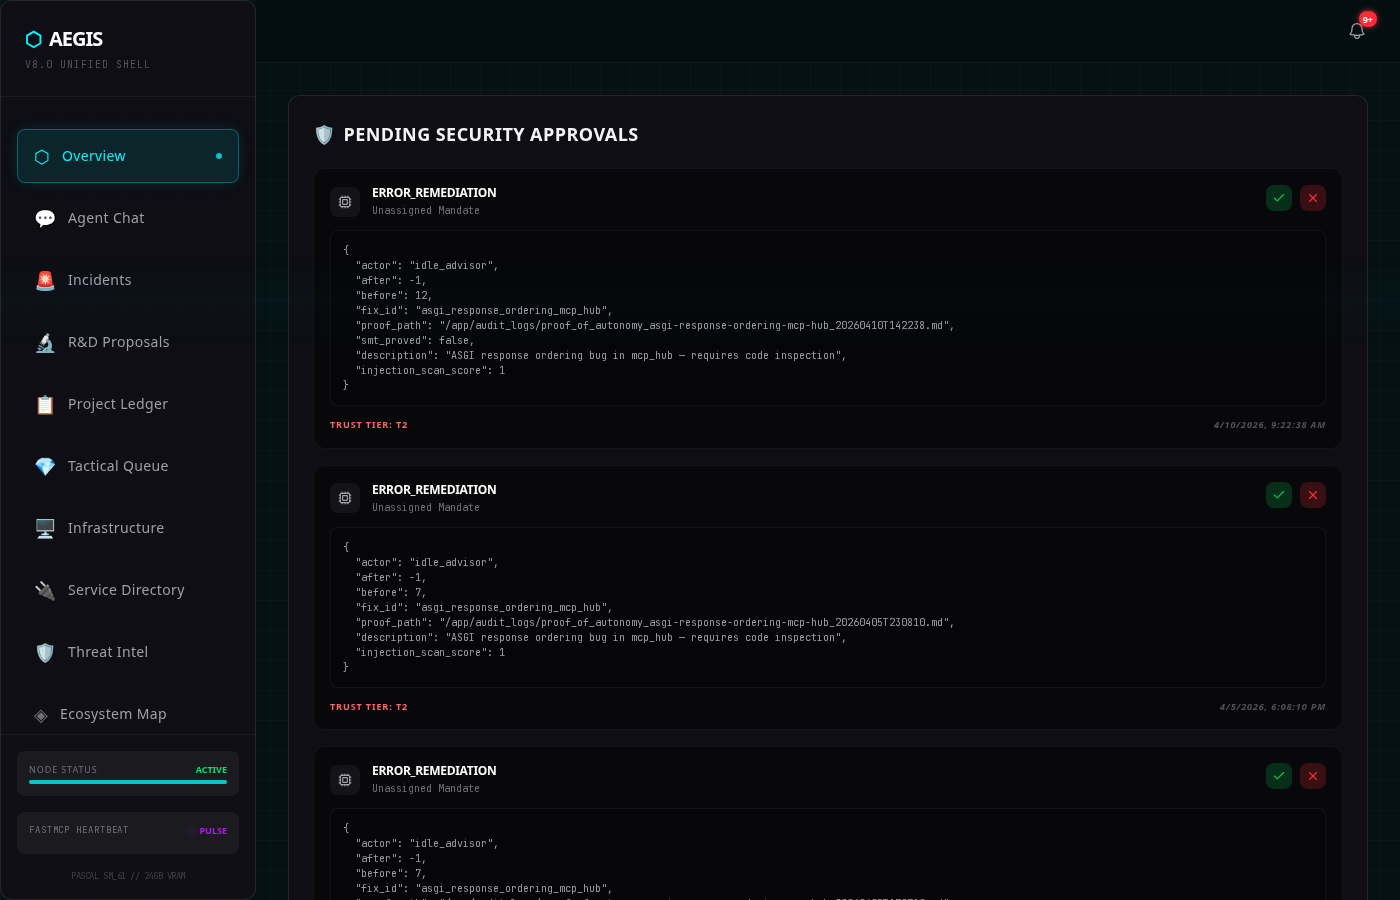
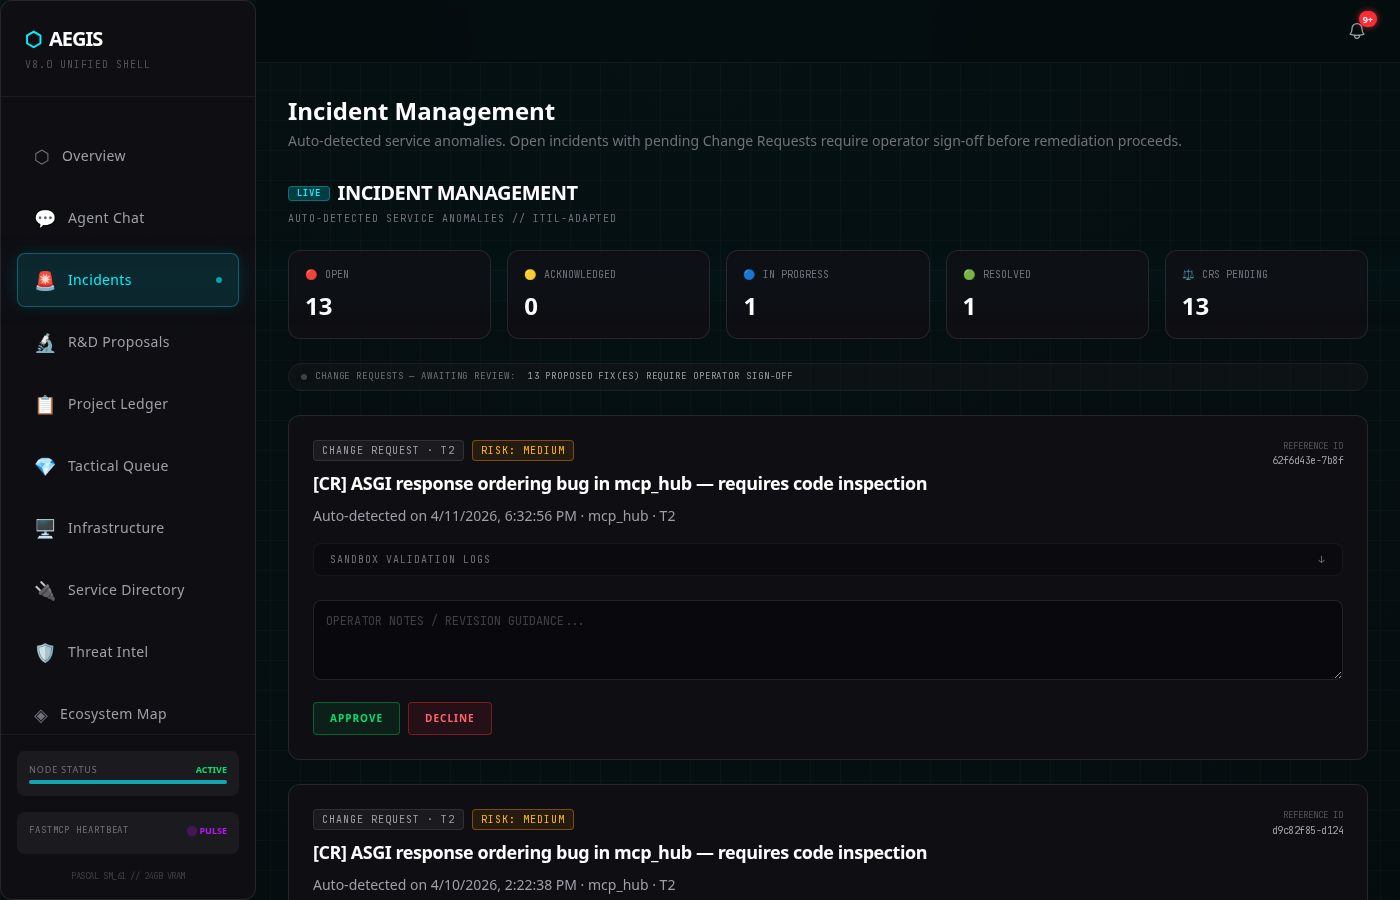
fix: replace screenshots — incidents page + agent-proposed architecture whiteboard

diff --git a/README.md b/README.md
@@ -12,11 +12,11 @@ It started as a supply chain immune system. It became the operating layer for ev
 
 ---
 
-![AEGIS Dashboard — T2 approval queue in action](assets/dashboard-overview.png)
-*T2 approval queue — pending security actions requiring operator confirmation before execution*
+![AEGIS Incident Management — live incident feed with severity tiers and automated triage](assets/dashboard-overview.png)
+*Incident management — live feed with severity classification, automated triage metadata, and operator review queue*
 
-![AEGIS Whiteboard — agent-proposed session diagrams](assets/whiteboard-sessions.png)
-*Whiteboard — agents propose architecture diagrams; operators review, annotate, and lock them*
+![AEGIS Whiteboard — IDLE_ADVISORY agent proposed platform architecture diagram](assets/whiteboard-sessions.png)
+*Whiteboard — the IDLE_ADVISORY agent proposed this architecture diagram autonomously; an operator reviewed and locked it*
 
 ---
 
